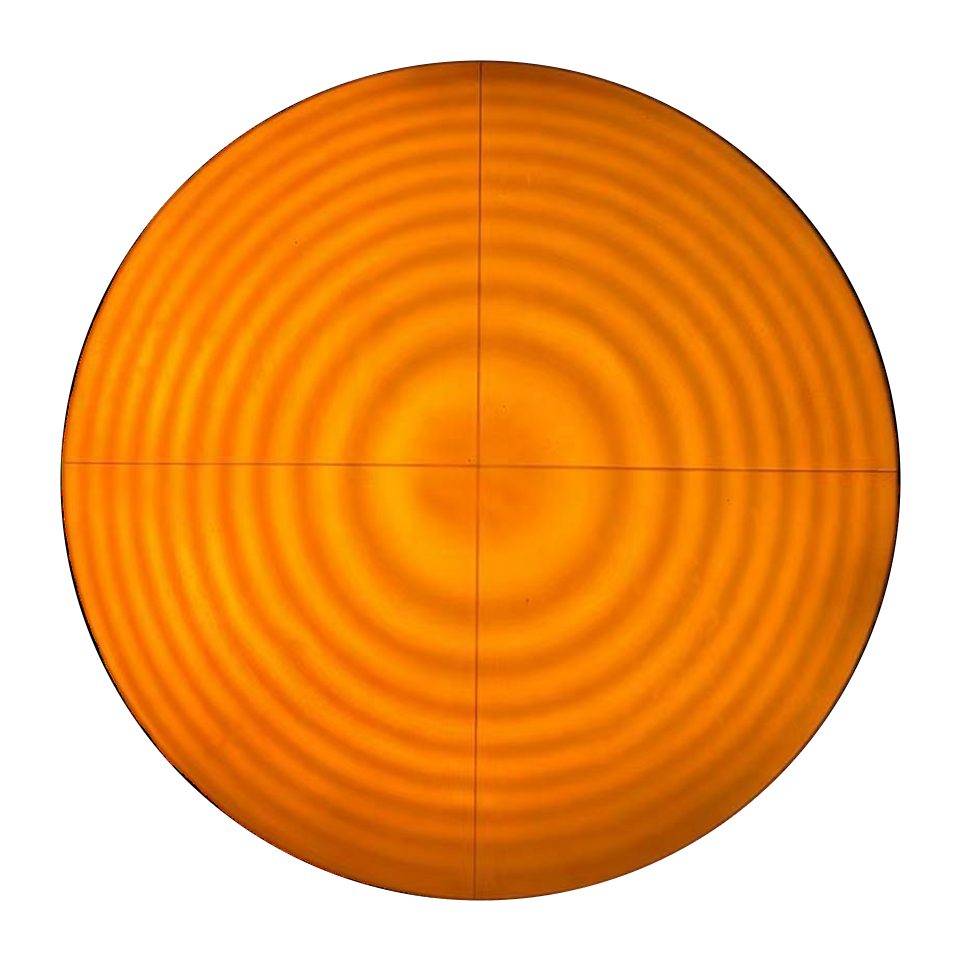
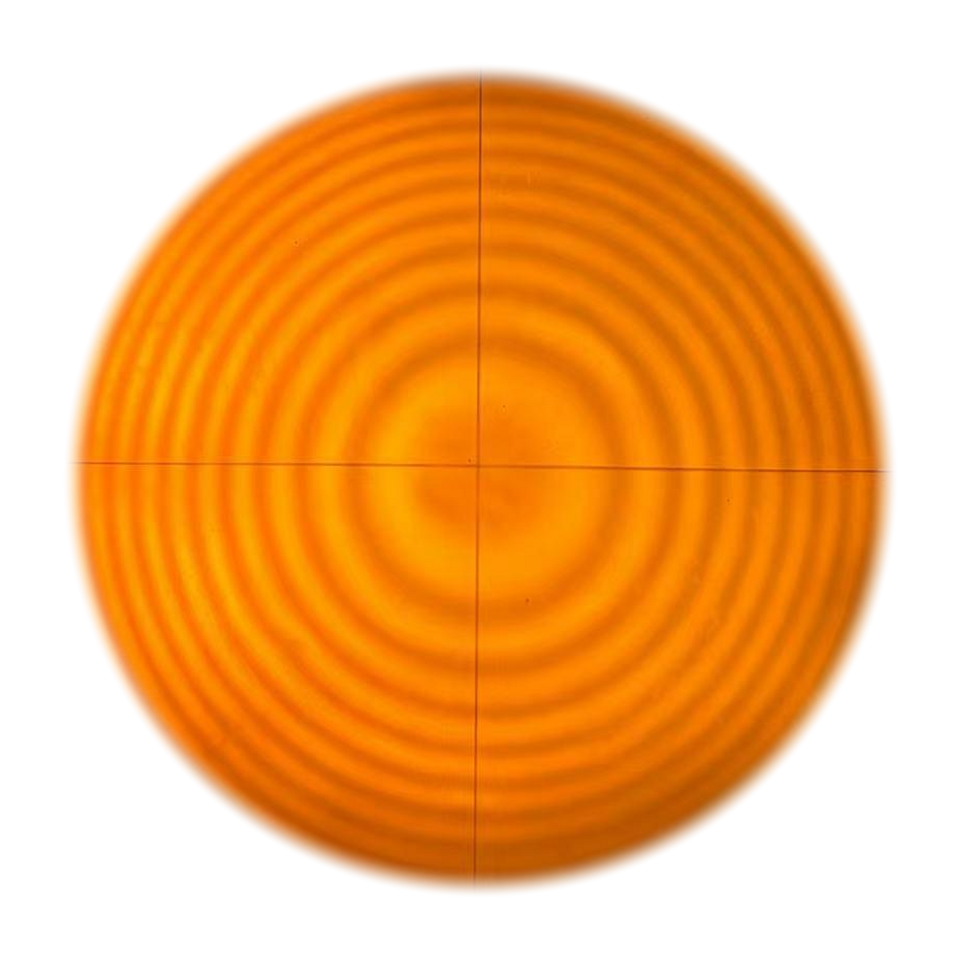
Blend field of view edges into white background

Changed region(s): [[0.0625, 0.0625, 0.9375, 0.9375]]

diff --git a/prepare_images.py b/prepare_images.py
@@ -47,14 +47,16 @@ def prepare(source: Path, destination: Path) -> None:
         fillcolor="white",
     )
 
-    if source.suffix.lower() != ".jpg":
-        yy, xx = np.ogrid[:SIZE, :SIZE]
-        distance = np.hypot(xx - SIZE / 2, yy - SIZE / 2)
-        alpha = np.clip(RADIUS + 0.5 - distance, 0, 1)[..., None]
-        result_pixels = np.asarray(result).astype(np.float32)
-        result = Image.fromarray(
-            np.uint8(np.round(result_pixels * alpha + 255 * (1 - alpha)))
-        )
+    yy, xx = np.ogrid[:SIZE, :SIZE]
+    distance = np.hypot(xx - SIZE / 2, yy - SIZE / 2)
+    fade_start = RADIUS - 32
+    fade_end = RADIUS - 2
+    blend = np.clip((fade_end - distance) / (fade_end - fade_start), 0, 1)
+    alpha = (blend * blend * (3 - 2 * blend))[..., None]
+    result_pixels = np.asarray(result).astype(np.float32)
+    result = Image.fromarray(
+        np.uint8(np.round(result_pixels * alpha + 255 * (1 - alpha)))
+    )
 
     destination.parent.mkdir(parents=True, exist_ok=True)
     if destination.suffix == ".jpg":
